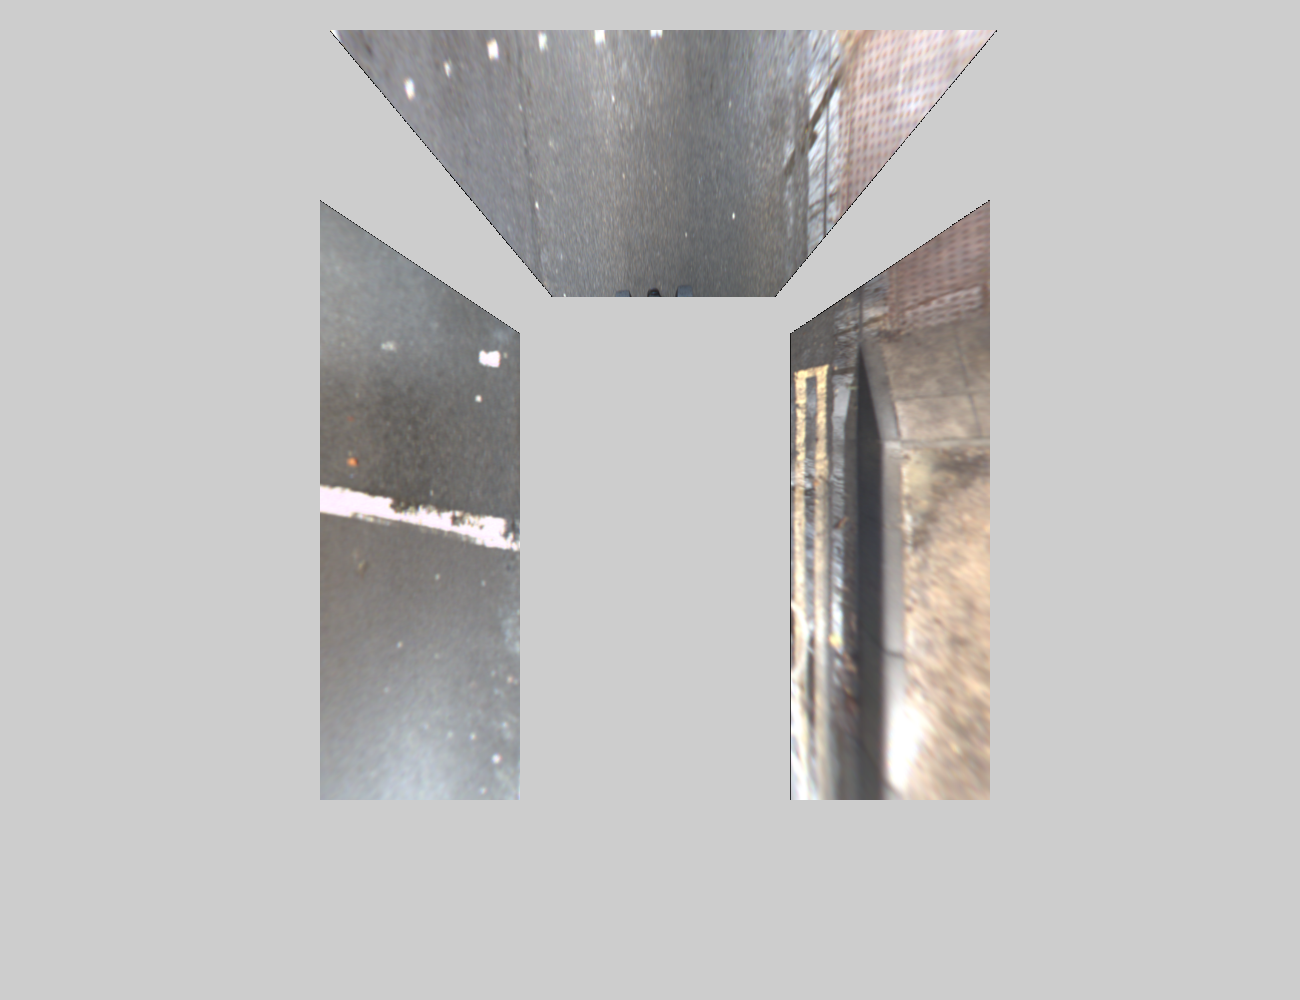
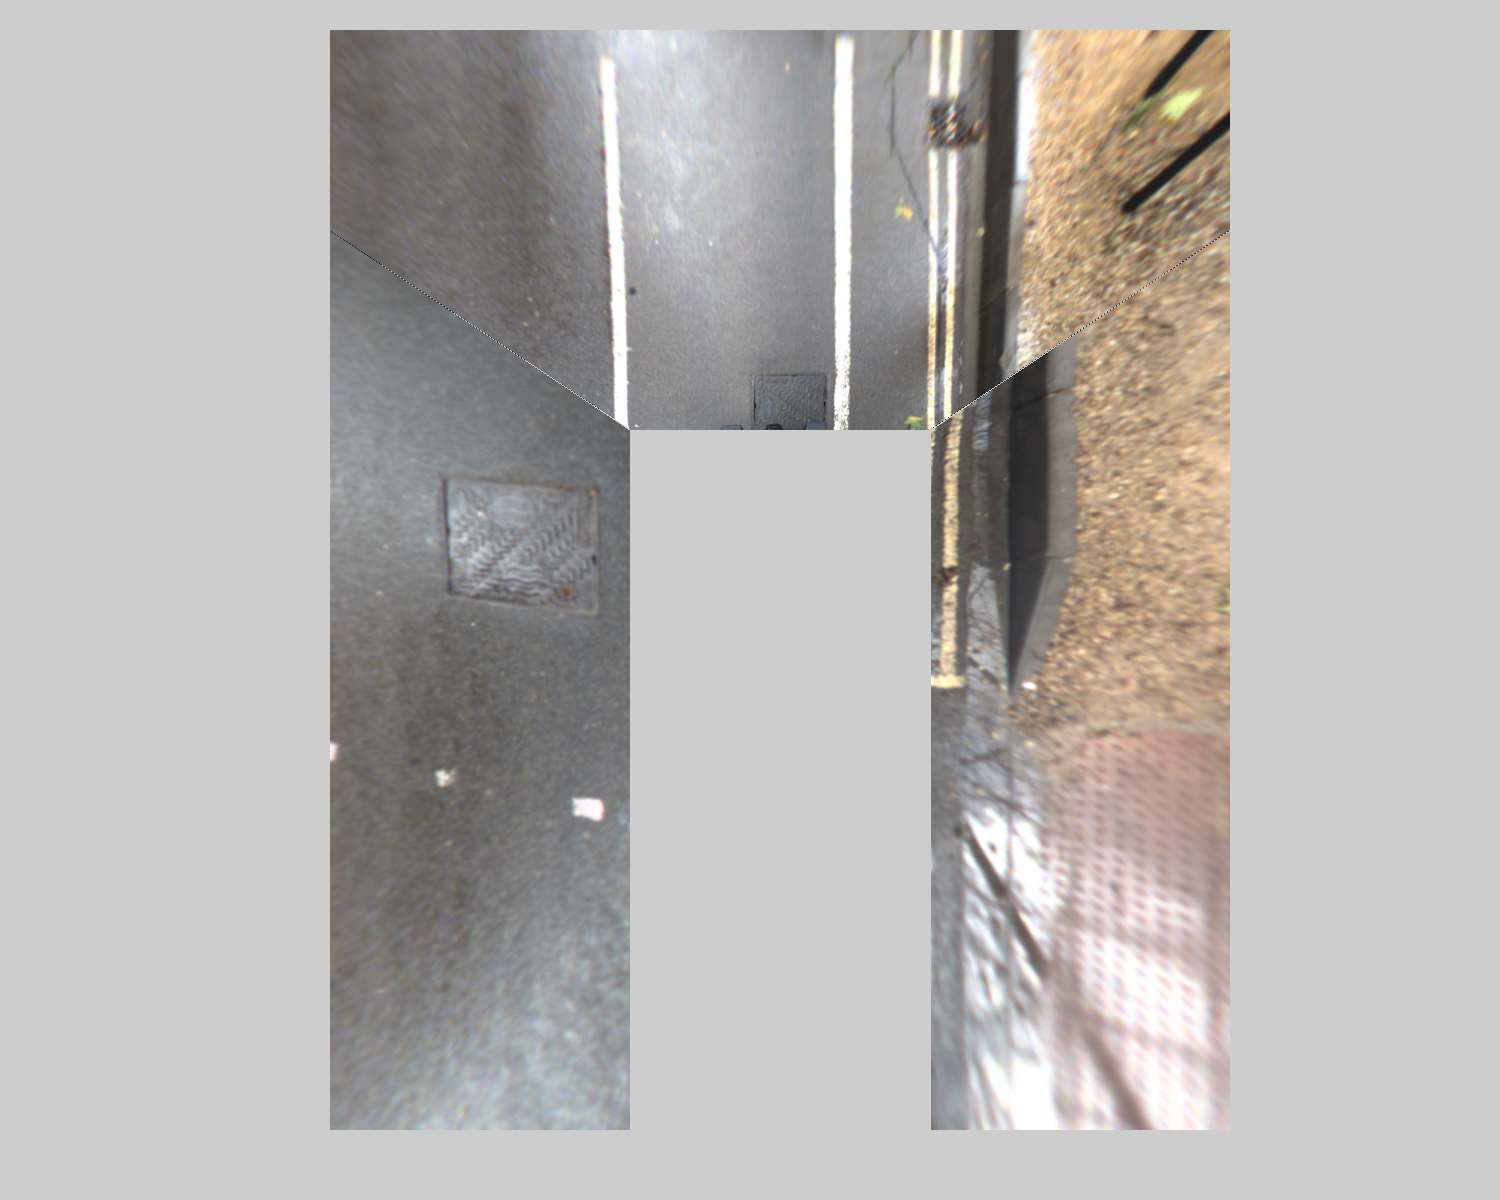
Add files via upload

diff --git a/IM_H_auto.cpp b/IM_H_auto.cpp
@@ -18,8 +18,8 @@ Mat image_remap_auto(Mat im_src, int q)
 
 	if (q == 2) // rear
 	{
-		pts_lu = Point2f(0, 615);
-		pts_ru = Point2f(1024, 650);
+		pts_lu = Point2f(0, 620);
+		pts_ru = Point2f(1024, 620);
 		pts_rb = Point2f(1024, 1000);
 		pts_lb = Point2f(0, 1000);
 
@@ -55,11 +55,20 @@ Mat image_remap_auto(Mat im_src, int q)
 	pts_src.push_back(pts_rb);
 	pts_src.push_back(pts_lb);
 
-
-	pts_dst.push_back(Point2f(0.0f, 0.0f));
-	pts_dst.push_back(Point2f(size.width - 1.0f, 0.0f));
-	pts_dst.push_back(Point2f(float(size.width - displace_r), float(size.height - 1)));
-	pts_dst.push_back(Point2f(float(displace_l), float(size.height - 1)));
+	if (q == 2) // destination points for rear view
+	{
+		pts_dst.push_back(Point2f(0.0f, 200.0f));
+		pts_dst.push_back(Point2f(size.width - 1.0f, 200.0f));
+		pts_dst.push_back(Point2f(float(size.width - displace_r), float(size.height - 1)));
+		pts_dst.push_back(Point2f(float(displace_l), float(size.height - 1)));
+	}
+	else // destination points for left and right view
+	{
+		pts_dst.push_back(Point2f(0.0f, 0.0f));
+		pts_dst.push_back(Point2f(size.width - 1.0f, 0.0f));
+		pts_dst.push_back(Point2f(float(size.width - displace_r), float(size.height - 1)));
+		pts_dst.push_back(Point2f(float(displace_l), float(size.height - 1)));
+	}
 	
 
 	Mat homogr = findHomography(pts_src, pts_dst);

diff --git a/combine.cpp b/combine.cpp
@@ -33,18 +33,18 @@ Mat combine(Mat img_re, Mat img_le, Mat img_ri)
 
 	// Create destination image
 
-	Mat dst = Mat(1000, 1300, CV_8UC3);
+	Mat dst = Mat(1200, 1500, CV_8UC3);
 
-	resize(img_ri, img_ri, Size(200, 600));
-	resize(img_le, img_le, Size(200, 600));
-	resize(img_re, img_re, Size(667, 267));
+	//resize(img_ri, img_ri, Size(200, 600));
+	//resize(img_le, img_le, Size(200, 600));
+	//resize(img_re, img_re, Size(667, 267));
 
 	
 	Mat mask;
 	vector<Mat> layers;
-	int he = 200;
-	int wi1 = 320;
-	int wi2 = 790;
+	int he = 230;
+	int wi1 = 330;
+	int wi2 = 930;
 
 	// Split 4 channels, merge BGR channels and setting the alpha channel as a mask
 
@@ -65,7 +65,6 @@ Mat combine(Mat img_re, Mat img_le, Mat img_ri)
 	mask = layers[3];
 	merge(rgb3, 3, img_re);
 	img_re.copyTo(dst.rowRange(30, 30 + img_re.rows).colRange(330, 330 + img_re.cols), mask);
-
 	
 	return dst;
 }
